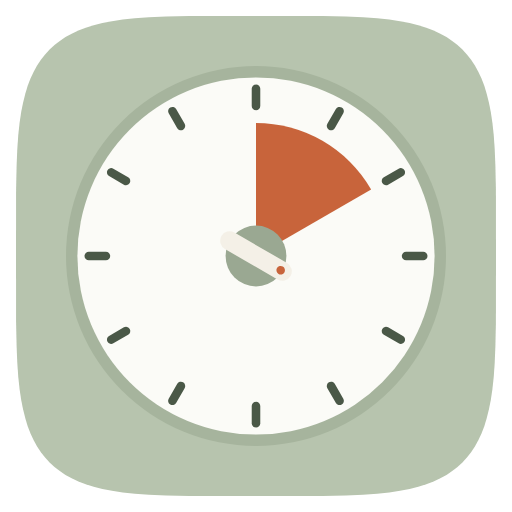
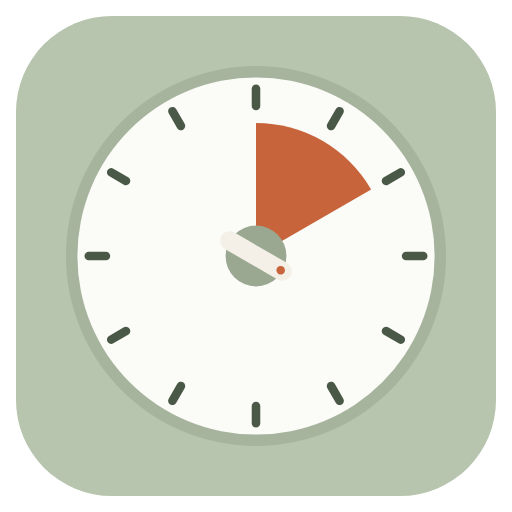
Use rounded-square body and button, add phrase setting
The body and START/PAUSE button return to flat rounded squares. A single
center phrase can now be set in settings for all themes, with a reset to
the theme default.

Claude-Session: https://claude.ai/code/session_014F5cxn2ymoUoo3vqbQG8Tn

diff --git a/app.js b/app.js
@@ -42,6 +42,7 @@ const DEFAULTS = {
   vibrate: true,
   readout: true,
   notify: false,
+  phrase: null,      // 가운데 문구 (null이면 테마 기본 문구)
   timer: null,
 };
 
@@ -151,33 +152,20 @@ let startPressed = false;
 const tickEls = [];
 const BODY_TOP = 40;               // 본체 윗면 y
 
-// 슈퍼타원(스퀘클) 외곽선
-function squirclePath(cx, cy, rx, ry, n = 4.6, steps = 120) {
-  let d = '';
-  for (let i = 0; i < steps; i++) {
-    const t = (i / steps) * 2 * Math.PI;
-    const c = Math.cos(t), s = Math.sin(t);
-    const x = cx + rx * Math.sign(c) * Math.abs(c) ** (2 / n);
-    const y = cy + ry * Math.sign(s) * Math.abs(s) ** (2 / n);
-    d += `${i ? 'L' : 'M'}${x.toFixed(1)} ${y.toFixed(1)}`;
-  }
-  return `${d}Z`;
-}
-
 function buildClock() {
   // 상단 START/PAUSE 버튼 (본체 뒤에 그려서 아랫부분이 가려지게)
   const startG = el('g', { class: 'top-btn', role: 'button', 'aria-label': '시작 / 일시정지' }, svg);
   el('rect', { x: 110, y: 0, width: 180, height: BODY_TOP, fill: 'transparent' }, startG);
-  startCap = el('rect', { x: 122, rx: 26, width: 156, height: 70, style: 'fill:var(--pause)' }, startG);
+  startCap = el('rect', { x: 122, rx: 10, width: 156, height: 70, style: 'fill:var(--pause)' }, startG);
   startLabel = el('text', {
     x: CX, 'text-anchor': 'middle', 'dominant-baseline': 'central', 'font-size': 15,
     'font-weight': 700, 'letter-spacing': 2.5, class: 'cap-label', style: 'fill:var(--pause-ink)',
   }, startG);
 
   // 본체
-  const bodyPath = squirclePath(CX, 226, 188, 186);
-  el('path', { d: bodyPath, transform: 'translate(0 6)', style: `fill:${shade('--body', 80)}` }, svg);
-  el('path', { d: bodyPath, style: 'fill:var(--body)' }, svg);
+  const body = { x: 12, y: BODY_TOP, width: 376, height: 372, rx: 40 };
+  el('rect', { ...body, y: BODY_TOP + 6, style: `fill:${shade('--body', 80)}` }, svg);
+  el('rect', { ...body, style: 'fill:var(--body)' }, svg);
 
   // 베젤과 다이얼 판
   el('circle', { cx: CX, cy: CY, r: 173, style: `fill:${shade('--body', 90)}` }, svg);
@@ -259,9 +247,13 @@ function sectorPath(min) {
   return `M ${CX} ${CY} L ${CX} ${CY - r} A ${r} ${r} 0 ${deg > 180 ? 1 : 0} 1 ${x} ${y} Z`;
 }
 
+function currentPhrase() {
+  return settings.phrase ?? themeColors().text ?? '';
+}
+
 function renderPhrase() {
   phraseEl.textContent = '';
-  const lines = (themeColors().text || '').split('\n').slice(0, 3);
+  const lines = currentPhrase().split('\n').slice(0, 3);
   lines.forEach((line, i) => {
     const t = el('tspan', { x: CX, dy: i === 0 ? 0 : 19 }, phraseEl);
     t.textContent = line;
@@ -665,6 +657,7 @@ const settingsDialog = document.getElementById('settingsDialog');
 const themeList = document.getElementById('themeList');
 const colorFields = document.getElementById('colorFields');
 const phraseInput = document.getElementById('phraseInput');
+const phraseReset = document.getElementById('phraseReset');
 
 function ensureCustom() {
   if (settings.theme !== 'custom' || !settings.custom) {
@@ -724,14 +717,25 @@ function renderColorFields() {
     wrap.append(input, span);
     colorFields.appendChild(wrap);
   }
-  phraseInput.value = c.text || '';
+}
+
+function renderPhraseInput() {
+  phraseInput.value = currentPhrase();
+  phraseReset.hidden = settings.phrase === null;
 }
 
 phraseInput.addEventListener('input', () => {
-  ensureCustom().text = phraseInput.value;
+  settings.phrase = phraseInput.value;
+  phraseReset.hidden = false;
   save();
-  applyTheme();
-  renderThemeList();
+  renderPhrase();
+});
+
+phraseReset.addEventListener('click', () => {
+  settings.phrase = null;
+  save();
+  renderPhrase();
+  renderPhraseInput();
 });
 
 document.querySelectorAll('.segmented').forEach((group) => {
@@ -773,6 +777,7 @@ for (const [id, key] of Object.entries(toggles)) {
 function renderSettings() {
   renderThemeList();
   renderColorFields();
+  renderPhraseInput();
   document.querySelectorAll('.segmented').forEach((group) => {
     const v = String(settings[group.dataset.setting]);
     for (const b of group.children) b.classList.toggle('selected', b.dataset.value === v);

diff --git a/index.html b/index.html
@@ -57,11 +57,11 @@
       <details id="customBox" class="custom-box">
         <summary>색상 직접 바꾸기</summary>
         <div id="colorFields" class="color-fields"></div>
-        <label class="field">
-          <span>문구</span>
-          <textarea id="phraseInput" rows="2" maxlength="40"></textarea>
-        </label>
       </details>
+
+      <h3>가운데 문구</h3>
+      <textarea id="phraseInput" class="phrase-input" rows="2" maxlength="40" placeholder="비워 두면 문구 없이 표시돼요"></textarea>
+      <button type="button" id="phraseReset" class="link-btn">테마 기본 문구로 되돌리기</button>
 
       <h3>알람 시간</h3>
       <div class="segmented" data-setting="alarmSeconds">

diff --git a/style.css b/style.css
@@ -251,13 +251,23 @@ body.focus .hint.nudge { opacity: 1; }
   border-radius: 6px;
   background: none;
 }
-.field { display: flex; flex-direction: column; gap: 4px; font-size: 13px; }
-.field textarea {
+.phrase-input {
+  display: block;
+  width: 100%;
   font: inherit;
   padding: 8px;
   border-radius: 8px;
   border: 1px solid #ccc;
   resize: none;
+}
+
+.sheet .link-btn {
+  border: 0;
+  background: none;
+  padding: 6px 0;
+  font-size: 13px;
+  color: #666;
+  text-decoration: underline;
 }
 
 .segmented {

diff --git a/sw.js b/sw.js
@@ -1,5 +1,5 @@
 // 오프라인 실행용 캐시. 파일을 수정하면 VERSION을 올려 주세요.
-const VERSION = 'focus-timer-v3';
+const VERSION = 'focus-timer-v4';
 const ASSETS = [
   './',
   'index.html',

diff --git a/README.md b/README.md
@@ -10,7 +10,8 @@
 - **째깍 표시**: 타이머가 도는 동안 남은 초를 따라 눈금 하나가 한 칸씩 움직여요(소리 없음).
 - **오른쪽 버튼 4개(자주 쓰는 시간)**: `+`를 눌러 시간을 저장하고, 저장된 버튼(예: `30분`)을 누르면 다이얼이 그 시간으로 맞춰져요. 길게 누르면 수정하거나 삭제할 수 있어요.
 - **설정(오른쪽 위)**:
-  - 컬러: 세이지, 라벤더, 차콜, 나만의(색상과 문구를 직접 지정)
+  - 컬러: 세이지, 라벤더, 차콜, 나만의(색상을 직접 지정)
+  - 가운데 문구: 원하는 문구로 바꾸기(모든 테마에 공통 적용, 비우면 문구 없음)
   - 알람 시간(3초/30초), 알람 음량(무음/작게/크게)
   - LIGHT(알람 때 화면 깜빡임, 30초 알람이면 약 30번), 다이얼 소리, 진동, 남은 시간 숫자 표시, 화면이 꺼졌을 때 알림
 
